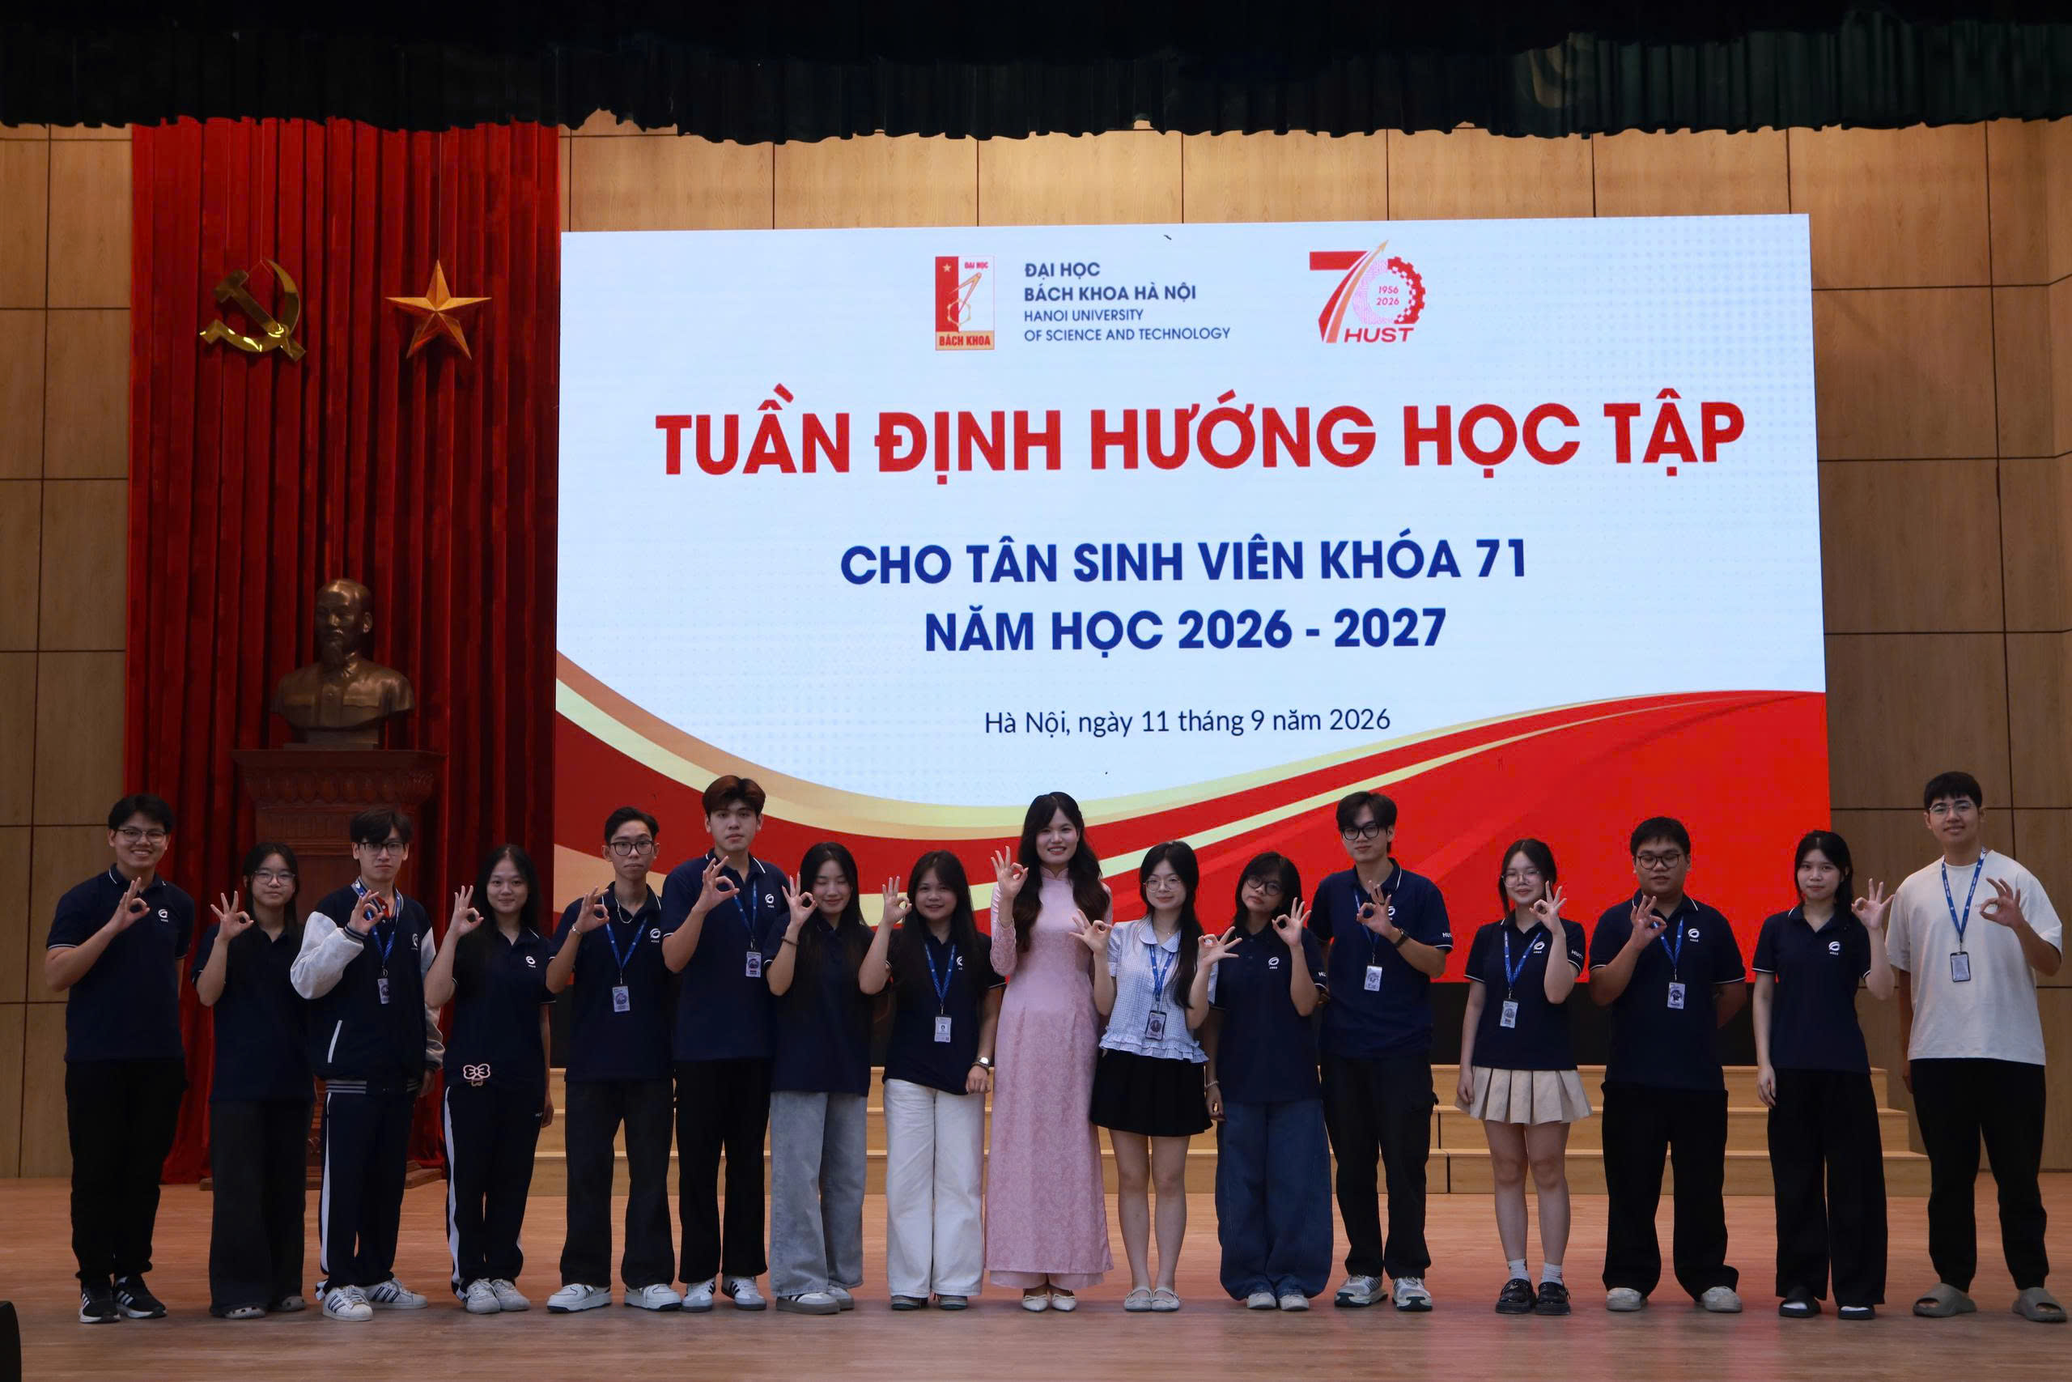
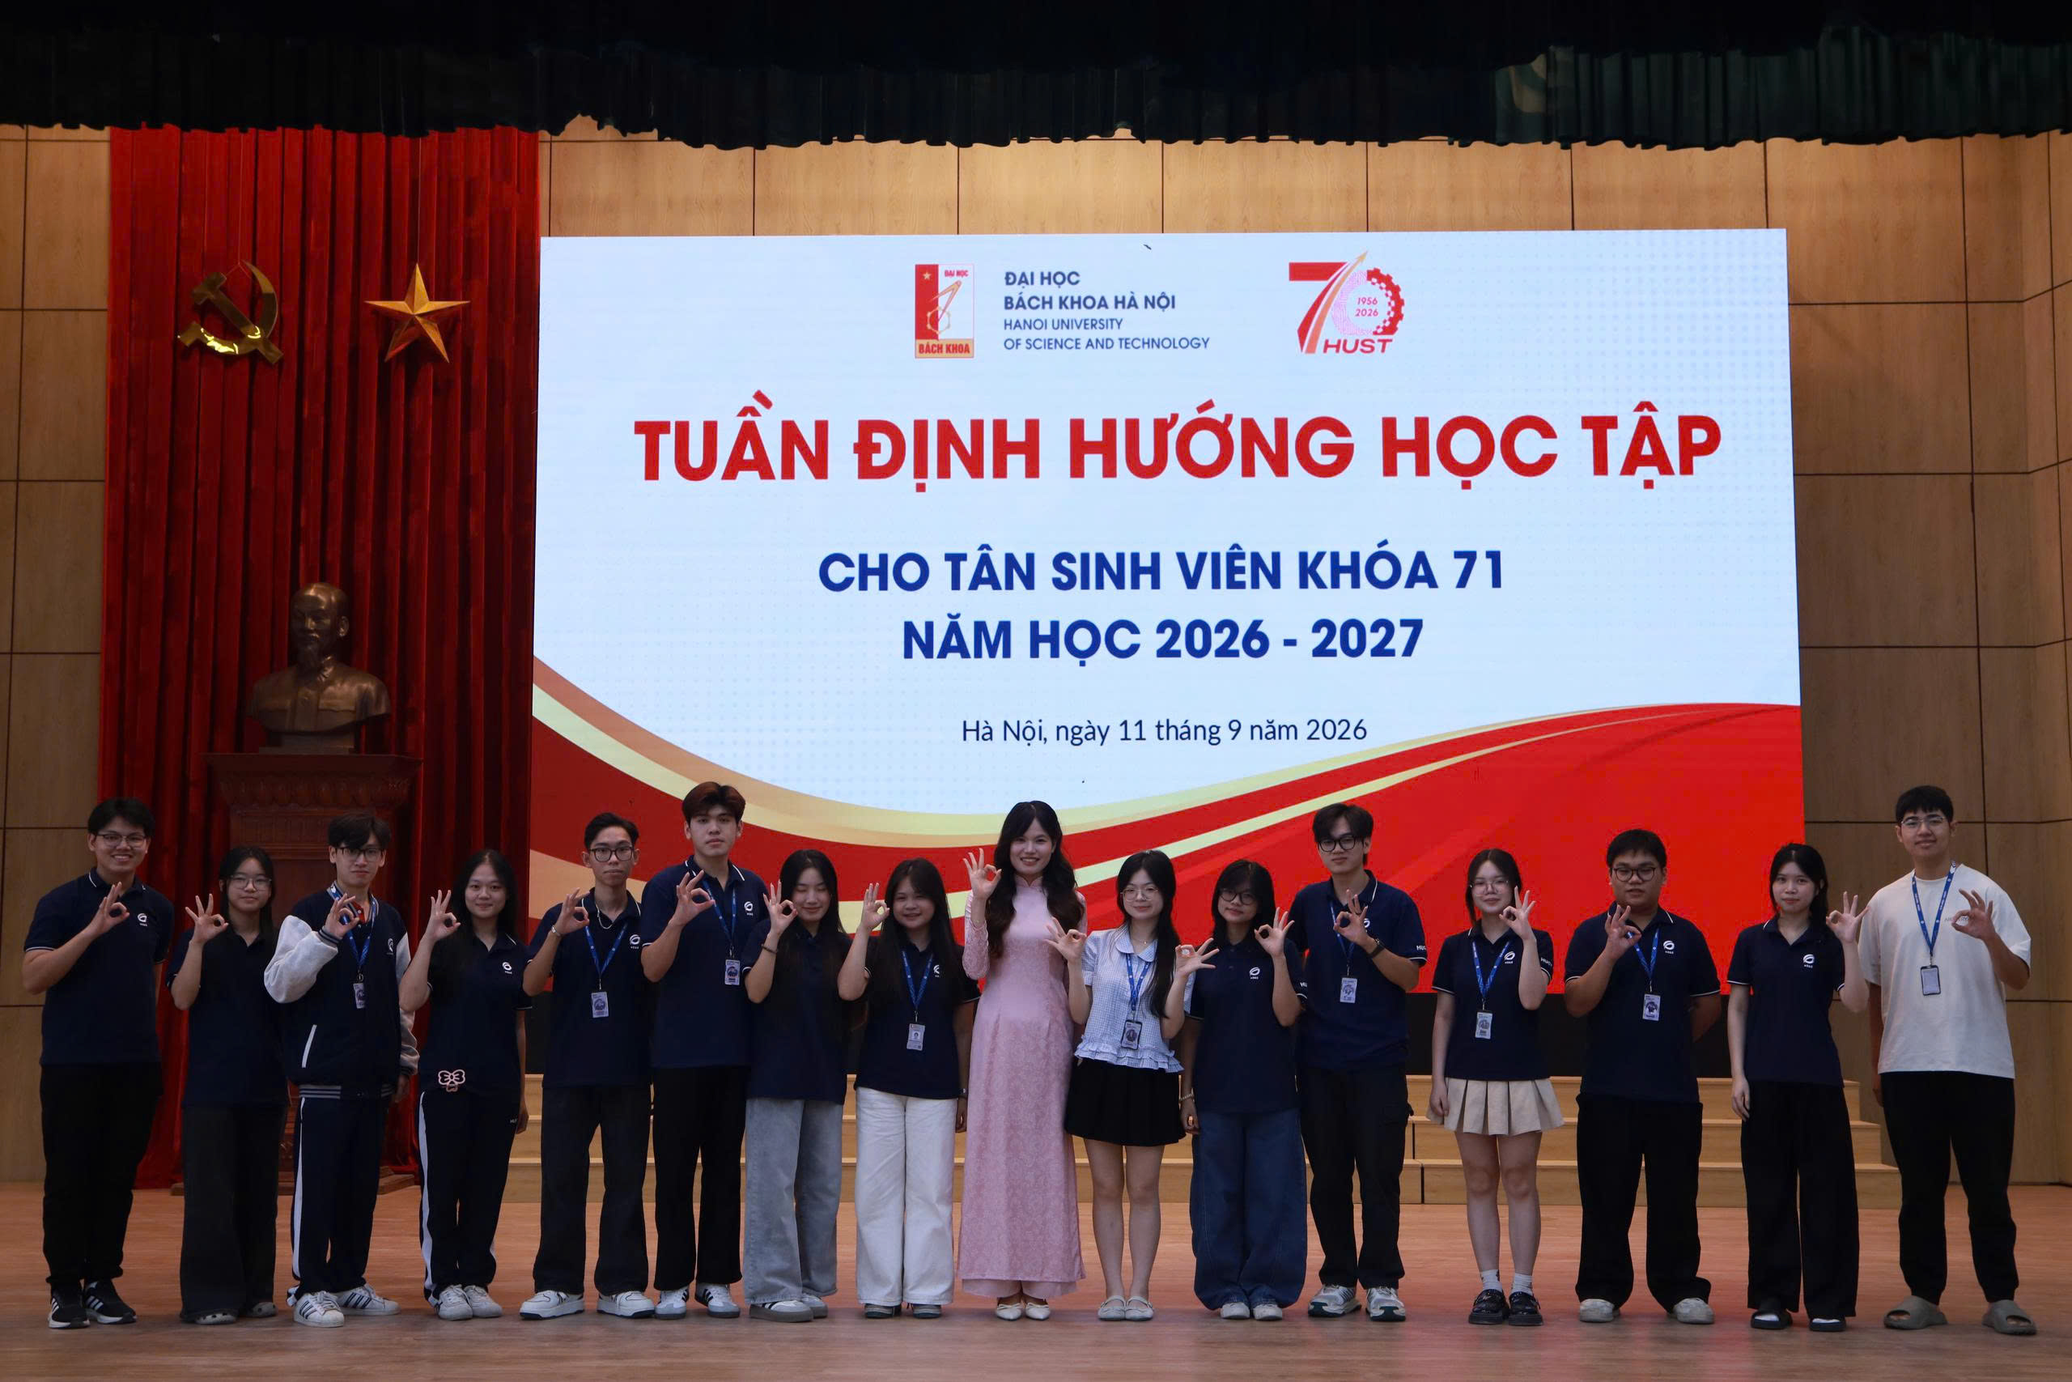
feat: Refactor department sub-units to use hardcoded content, update related components for improved structure and styling, and enhance department detail page logic

diff --git a/app/departments/components/departmentSubUnitsContent.ts b/app/departments/components/departmentSubUnitsContent.ts
@@ -1,0 +1,117 @@
+/** Hardcoded two-column sub-unit sections — not driven by clubData. */
+
+export type SubUnitAccent = "warm" | "cool";
+
+export interface HardcodedSubUnitCard {
+  index: "01" | "02";
+  name: string;
+  tagline: string;
+  about?: string;
+  aboutLabel?: string;
+  /** Second block title (e.g. Công cụ vs Phạm vi) */
+  scopeLabel?: string;
+  scopeBody?: string;
+  /** Third block title (e.g. Đào tạo vs Hoạt động) */
+  focusLabel?: string;
+  focusItems?: string[];
+  accent?: SubUnitAccent;
+}
+
+export interface HardcodedSubUnitSection {
+  intro: string;
+  cards: [HardcodedSubUnitCard, HardcodedSubUnitCard];
+}
+
+export const CHUYEN_MON_SUB_UNITS: HardcodedSubUnitSection = {
+  intro:
+    "KNM dạy sinh viên dùng công cụ — Kĩ thuật build những gì CLB và trường triển khai.",
+  cards: [
+    {
+      index: "01",
+      name: "Kĩ năng mềm",
+      tagline: "Dạy và hỗ trợ sinh viên dùng Microsoft 365",
+      about:
+        "Nghiên cứu và triển khai Microsoft 365 trong công việc và cuộc sống; xây dựng lớp KNM tin học; hỗ trợ MOSWC và Trung tâm Chuyển đổi số.",
+      scopeLabel: "Công cụ",
+      scopeBody:
+        "Word · Excel · PowerPoint · Teams · OneDrive · Forms · Outlook · MOSWC",
+      focusLabel: "Đào tạo",
+      focusItems: [
+        "Xây dựng và quản lý các lớp KNM tin học văn phòng và kỹ năng số",
+        "Soạn nội dung Word, Excel, PowerPoint, Teams và giải đáp Q&A Office 365",
+        "Hỗ trợ tổ chức, ôn luyện và định hướng thí sinh MOSWC (kể cả cấp ĐHBK Hà Nội)",
+      ],
+      accent: "warm",
+    },
+    {
+      index: "02",
+      name: "Kĩ thuật",
+      tagline: "Xây công cụ và hỗ trợ kỹ thuật chuyển đổi số",
+      about:
+        "Hỗ trợ kỹ thuật trong các hoạt động chuyển đổi số; tìm hiểu và phát triển ứng dụng phục vụ CLB và Đại học.",
+      scopeLabel: "Công cụ",
+      scopeBody: "Power Apps · Power Automate · SharePoint · Microsoft 365",
+      focusLabel: "Đào tạo",
+      focusItems: [
+        "Prototype và triển khai ứng dụng hỗ trợ hoạt động nội bộ CLB",
+        "Tự động hóa quy trình và tích hợp công cụ số cho ban và sự kiện",
+        "Hỗ trợ kỹ thuật cho các chương trình chuyển đổi số của trường",
+      ],
+      accent: "cool",
+    },
+  ],
+};
+
+/** From content/BANSUKIEN.md — two mảng, distinct labels from Ban Chuyên môn */
+export const SU_KIEN_SUB_UNITS: HardcodedSubUnitSection = {
+  intro:
+    "",
+  cards: [
+    {
+      index: "01",
+      name: "Kỹ thuật sự kiện",
+      tagline: "Thiên về hậu trường kỹ thuật",
+      aboutLabel: "Giới thiệu",
+      about:
+        "Là phân ban tiền thân sáng lập CLB.",
+      focusLabel: "Nhiệm vụ",
+      focusItems: [
+        "Đảm nhận vai trò kĩ thuật viên trong các sự kiện lớn của Ban CTSV cũng như Đại học: Trực tiếp setup âm thanh, ánh sáng, hình ảnh, phần mềm chạy slide, livestream...",
+        "Đóng vai trò nòng cốt phát triển ban Sự kiện.",
+        "Phát triển năng lực hậu trường cho đội ngũ Ban Sự kiện",
+      ],
+      accent: "cool",
+    },
+    {
+      index: "02",
+      name: "Điều phối & Vận hành",
+      tagline: "Thiên về hiện trường & trải nghiệm chương trình",
+      about:
+        "Là phân ban thiên về hiện trường & trải nghiệm chương trình",
+      aboutLabel: "Giới thiệu",
+      focusLabel: "Nhiệm vụ",
+      focusItems: [
+        "Hỗ trợ điều phối, lễ tân (trao học bổng), MC, văn nghệ ... trong các sự kiện của Ban CTSV Đại học. ",
+        "Tổ chức các hoạt động mini game trong meeting CLB, các buổi team building khi dã ngoại, ...",
+        "Đảm nhận trách nhiệm và vai trò trong các sự kiện lớn của CLB như: Sinh nhật CLB, Kiện toàn nhân sự. ",
+      ],
+      accent: "warm",
+    },
+  ],
+};
+
+const SECTIONS: Record<string, HardcodedSubUnitSection | undefined> = {
+  "chuyen-mon": CHUYEN_MON_SUB_UNITS,
+  "su-kien": SU_KIEN_SUB_UNITS,
+};
+
+export function getHardcodedSubUnits(
+  departmentId: string,
+): HardcodedSubUnitSection | null {
+  return SECTIONS[departmentId] ?? null;
+}
+
+export const CHUYEN_MON_GALLERY_SUBUNIT_LABELS: Record<string, string> = {
+  knm: "Kĩ năng mềm",
+  "ky-thuat": "Kĩ thuật",
+};

diff --git a/app/departments/[id]/page.tsx b/app/departments/[id]/page.tsx
@@ -11,6 +11,7 @@ import { useRecruitment } from "@/app/hooks/useRecruitment";
 import DepartmentBentoGrid from "../components/DepartmentBentoGrid";
 import DepartmentGallery from "../components/DepartmentGallery";
 import DepartmentSubUnits from "../components/DepartmentSubUnits";
+import { CHUYEN_MON_GALLERY_SUBUNIT_LABELS } from "../components/departmentSubUnitsContent";
 import Footer from "@/app/components/Footer";
 import { ArrowRight } from "lucide-react";
 
@@ -114,9 +115,9 @@ export default function DepartmentDetailPage({ params }: DepartmentPageProps) {
         </div>
       </section>
 
-      {dept.subUnits && dept.subUnits.length > 0 && (
+      {(dept.id === "chuyen-mon" || dept.id === "su-kien") && (
         <DepartmentSubUnits
-          units={dept.subUnits}
+          departmentId={dept.id}
           departmentName={dept.name}
         />
       )}
@@ -155,10 +156,9 @@ export default function DepartmentDetailPage({ params }: DepartmentPageProps) {
               slides={dept.gallery || []}
               departmentName={dept.name}
               subUnitLabels={
-                dept.subUnits?.reduce<Record<string, string>>((acc, unit) => {
-                  acc[unit.id] = unit.name;
-                  return acc;
-                }, {}) ?? undefined
+                dept.id === "chuyen-mon"
+                  ? CHUYEN_MON_GALLERY_SUBUNIT_LABELS
+                  : undefined
               }
             />
             <DepartmentBentoGrid items={dept.bentoItems || []} />
@@ -222,7 +222,7 @@ export default function DepartmentDetailPage({ params }: DepartmentPageProps) {
         <section className="py-12 sm:py-16 border-t border-border">
           <div className="max-w-[var(--max-width)] mx-auto px-5 sm:px-8">
             <h2 className="font-display text-xl sm:text-2xl font-bold text-ink tracking-tight mb-3">
-              {dept.subUnits?.length
+              {dept.id === "chuyen-mon" || dept.id === "su-kien"
                 ? "Kỹ năng chung tại ban"
                 : `Kỹ năng rèn luyện tại ${dept.name}`}
             </h2>
@@ -247,7 +247,7 @@ export default function DepartmentDetailPage({ params }: DepartmentPageProps) {
             Đợt tuyển thành viên {recruitment.generation} đang mở đơn. Nộp hồ sơ
             để cùng CLB kiến tạo kỹ năng số tại ĐHBK Hà Nội.
           </p>
-          {dept.subUnits && dept.subUnits.length > 0 && (
+          {dept.id === "chuyen-mon" && (
             <p className="text-sm text-ink leading-relaxed max-w-xl mb-6 m-0">
               Chọn hướng phù hợp:{" "}
               <span className="font-semibold">KNM</span> nếu bạn muốn dạy và hỗ
@@ -255,6 +255,16 @@ export default function DepartmentDetailPage({ params }: DepartmentPageProps) {
               <span className="font-semibold">Kĩ thuật</span> nếu bạn muốn build
               công cụ thật. Ghi rõ trong form nếu có mục &ldquo;Ban / mảng mong
               muốn&rdquo;.
+            </p>
+          )}
+          {dept.id === "su-kien" && (
+            <p className="text-sm text-ink leading-relaxed max-w-xl mb-6 m-0">
+              Chọn hướng phù hợp:{" "}
+              <span className="font-semibold">Kỹ thuật sự kiện</span> nếu bạn
+              thích hậu trường âm thanh, hình ảnh, livestream —{" "}
+              <span className="font-semibold">Điều phối &amp; Vận hành</span> nếu
+              bạn muốn điều phối hiện trường, lễ tân và hậu cần. Ghi rõ trong form
+              nếu có mục &ldquo;Ban / mảng mong muốn&rdquo;.
             </p>
           )}
           <a

diff --git a/app/departments/components/DepartmentSubUnits.tsx b/app/departments/components/DepartmentSubUnits.tsx
@@ -1,22 +1,26 @@
 "use client";
 
-import type { DepartmentSubUnit } from "@/app/types";
+import {
+  getHardcodedSubUnits,
+  type HardcodedSubUnitCard,
+  type SubUnitAccent,
+} from "./departmentSubUnitsContent";
 
 interface DepartmentSubUnitsProps {
-  units: DepartmentSubUnit[];
+  departmentId: string;
   departmentName: string;
 }
 
-function headerStripClass(accent: DepartmentSubUnit["accent"]) {
+function headerStripClass(accent: SubUnitAccent) {
   if (accent === "warm") return "bg-warm border-b border-border";
   if (accent === "cool") return "bg-surface border-b border-border";
   return "bg-card border-b border-border";
 }
 
-function SubUnitCard({ unit }: { unit: DepartmentSubUnit }) {
+function SubUnitCard({ unit }: { unit: HardcodedSubUnitCard }) {
   return (
     <article className="flex flex-col rounded-lg border border-border bg-card overflow-hidden">
-      <header className={`px-4 py-3 sm:px-5 sm:py-3.5 ${headerStripClass(unit.accent)}`}>
+      <header className={`px-4 py-3 sm:px-5 sm:py-3.5 ${headerStripClass(unit.accent ?? "warm")}`}>
         <p className="font-mono text-[11px] font-semibold tracking-[0.2em] uppercase text-ink-muted m-0 mb-1">
           {unit.index}
         </p>
@@ -29,28 +33,28 @@ function SubUnitCard({ unit }: { unit: DepartmentSubUnit }) {
       <div className="flex flex-col flex-1 px-4 py-4 sm:px-5 sm:py-5 gap-5">
         <div className="border-l-2 border-accent/40 pl-4">
           <p className="text-[11px] font-semibold tracking-[0.2em] uppercase text-accent mb-1.5 m-0">
-            Nhiệm vụ
+            {unit.aboutLabel}
           </p>
           <p className="text-sm sm:text-base text-ink leading-relaxed m-0">
-            {unit.mission}
+            {unit.about}
           </p>
         </div>
 
         <div>
           <p className="text-[11px] font-semibold tracking-[0.2em] uppercase text-accent mb-2 m-0">
-            Công cụ
+            {unit.scopeLabel}
           </p>
           <p className="text-sm sm:text-base text-ink leading-relaxed m-0">
-            {unit.tools.join(" · ")}
+            {unit.scopeBody}
           </p>
         </div>
 
         <div>
           <p className="text-[11px] font-semibold tracking-[0.2em] uppercase text-accent mb-2 m-0">
-            Đào tạo
+            {unit.focusLabel}
           </p>
           <ul className="m-0 p-0 list-none space-y-2">
-            {unit.trainingFocus.map((item) => (
+            {unit.focusItems?.map((item) => (
               <li
                 key={item}
                 className="text-sm text-ink-light leading-relaxed pl-3 border-l border-border"
@@ -66,10 +70,11 @@ function SubUnitCard({ unit }: { unit: DepartmentSubUnit }) {
 }
 
 export default function DepartmentSubUnits({
-  units,
+  departmentId,
   departmentName,
 }: DepartmentSubUnitsProps) {
-  if (!units.length) return null;
+  const section = getHardcodedSubUnits(departmentId);
+  if (!section) return null;
 
   return (
     <section
@@ -84,13 +89,12 @@ export default function DepartmentSubUnits({
           Hai mảng trong {departmentName}
         </h2>
         <p className="text-sm text-ink-light leading-relaxed max-w-2xl mb-8 m-0">
-          KNM dạy sinh viên dùng công cụ — Kĩ thuật build những gì CLB và trường
-          triển khai.
+          {section.intro}
         </p>
 
         <div className="grid grid-cols-1 md:grid-cols-2 gap-6 md:gap-8 relative">
-          {units.map((unit) => (
-            <SubUnitCard key={unit.id} unit={unit} />
+          {section.cards.map((unit) => (
+            <SubUnitCard key={unit.index} unit={unit} />
           ))}
         </div>
       </div>

diff --git a/app/data/clubData.ts b/app/data/clubData.ts
@@ -288,59 +288,12 @@ export const DEPARTMENTS: Department[] = [
       },
       {
         title: "Biến kiến thức thành giá trị thực tiễn",
-        desc: "Phối hợp hai mảng Kĩ năng mềm và Kĩ thuật — dạy công cụ sinh viên cần, build công cụ CLB và trường dùng được.",
+        desc: "Phối hợp hai mảng Kĩ năng mềm và Kĩ thuật - dạy công cụ sinh viên cần, build công cụ CLB và trường dùng được.",
       },
     ],
     skillsLearned: [
       "Phối hợp đào tạo và triển khai công cụ số trong môi trường CLB",
       "Viết tài liệu, hướng dẫn và hỗ trợ sinh viên trên chương trình thật",
-    ],
-    subUnits: [
-      {
-        id: "knm",
-        index: "01",
-        name: "Kĩ năng mềm",
-        tagline: "Dạy và hỗ trợ sinh viên dùng Microsoft 365",
-        mission:
-          "Nghiên cứu và triển khai Microsoft 365 trong công việc và cuộc sống; xây dựng lớp KNM tin học; hỗ trợ MOSWC và Trung tâm Chuyển đổi số.",
-        tools: [
-          "Word",
-          "Excel",
-          "PowerPoint",
-          "Teams",
-          "OneDrive",
-          "Forms",
-          "Outlook",
-          "MOSWC",
-        ],
-        trainingFocus: [
-          "Xây dựng và quản lý các lớp KNM tin học văn phòng và kỹ năng số",
-          "Soạn nội dung Word, Excel, PowerPoint, Teams và giải đáp Q&A Office 365",
-          "Hỗ trợ tổ chức, ôn luyện và định hướng thí sinh MOSWC (kể cả cấp ĐHBK Hà Nội)",
-        ],
-
-        accent: "warm",
-      },
-      {
-        id: "ky-thuat",
-        index: "02",
-        name: "Kĩ thuật",
-        tagline: "Xây công cụ và hỗ trợ kỹ thuật chuyển đổi số",
-        mission:
-          "Hỗ trợ kỹ thuật trong các hoạt động chuyển đổi số; tìm hiểu và phát triển ứng dụng phục vụ CLB và Đại học.",
-        tools: [
-          "Power Apps",
-          "Power Automate",
-          "SharePoint",
-          "Microsoft 365",
-        ],
-        trainingFocus: [
-          "Prototype và triển khai ứng dụng hỗ trợ hoạt động nội bộ CLB",
-          "Tự động hóa quy trình và tích hợp công cụ số cho ban và sự kiện",
-          "Hỗ trợ kỹ thuật cho các chương trình chuyển đổi số của trường",
-        ],
-        accent: "cool",
-      },
     ],
     memberHighlights: [
       {
@@ -589,7 +542,7 @@ export const DEPARTMENTS: Department[] = [
         src: "/assets/departments/EVENTS/carousel-02.jpg",
         alt: "Khán phòng workshop của CLB o365-HUST",
         title: "Workshop tại giảng đường",
-        caption: "Một buổi tập huấn — hàng ghế đầy sinh viên Bách khoa.",
+        caption: "Buổi tập huấn vô cùng thú vị",
         fit: "cover",
       },
       {

diff --git a/app/types.ts b/app/types.ts
@@ -54,16 +54,10 @@ export interface DepartmentGallerySlide {
 
 export type DepartmentSubUnitId = "knm" | "ky-thuat";
 
+/** Gallery slide tag only — sub-unit copy lives in departmentSubUnitsContent.ts */
 export interface DepartmentSubUnit {
   id: DepartmentSubUnitId;
-  index: "01" | "02";
   name: string;
-  tagline: string;
-  mission: string;
-  tools: string[];
-  /** Up to 3 bullets */
-  trainingFocus: string[];
-  accent?: "warm" | "cool";
 }
 
 export interface Department {
@@ -89,8 +83,6 @@ export interface Department {
   /** Activity photos for the Điểm nhấn gallery (not the hero team shot) */
   gallery?: DepartmentGallerySlide[];
   bentoItems?: DepartmentBentoItem[];
-  /** Internal mảng (e.g. KNM + Kĩ thuật within Ban Chuyên môn) */
-  subUnits?: DepartmentSubUnit[];
 }
 
 export interface BlogPost {

diff --git a/app/components/EventsTeaser.tsx b/app/components/EventsTeaser.tsx
@@ -199,7 +199,6 @@ export default function EventsTeaser() {
 
   const handleSelect = useCallback((img: ShowcaseImage) => {
     setSelected((current) => (current?.src === img.src ? null : img));
-    setPaused(true);
   }, []);
 
   const handleClose = useCallback(() => {
